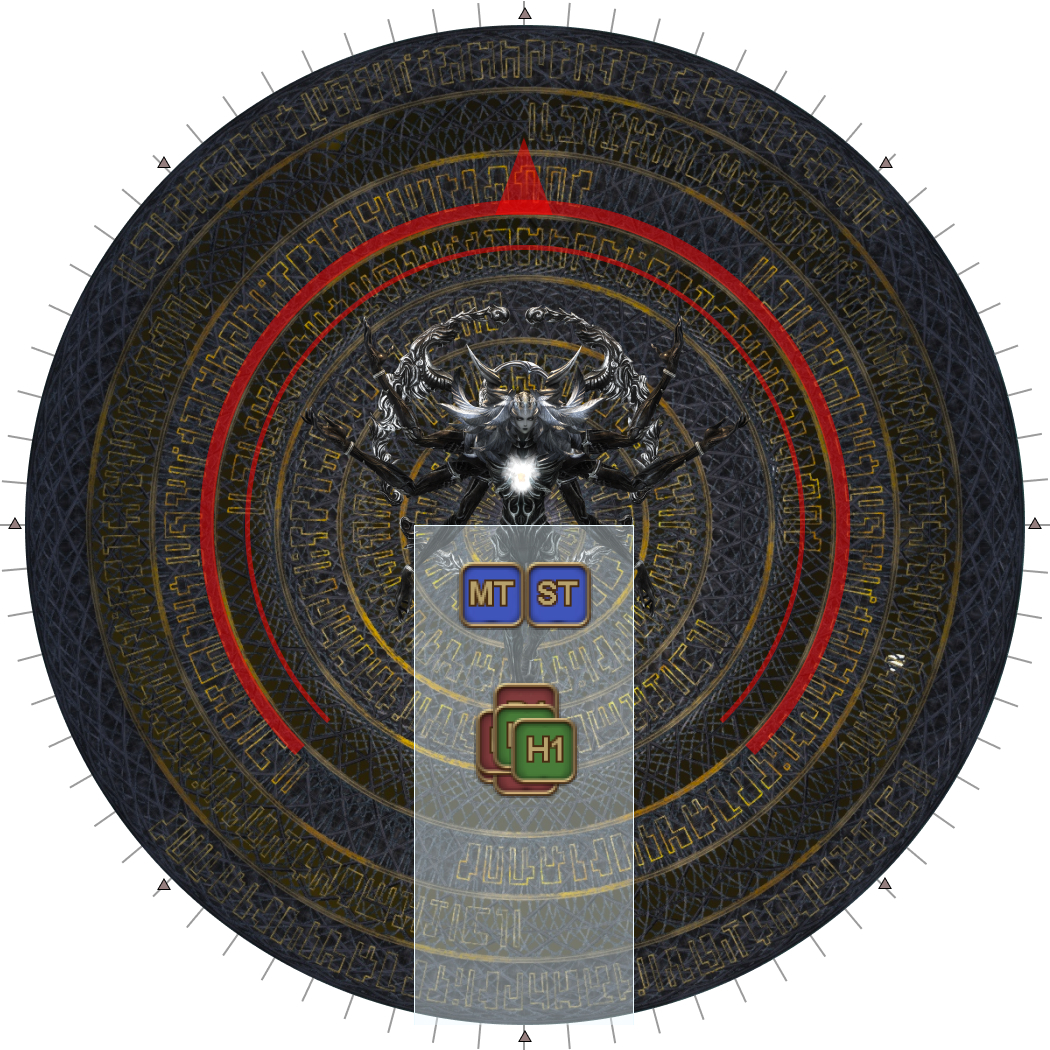
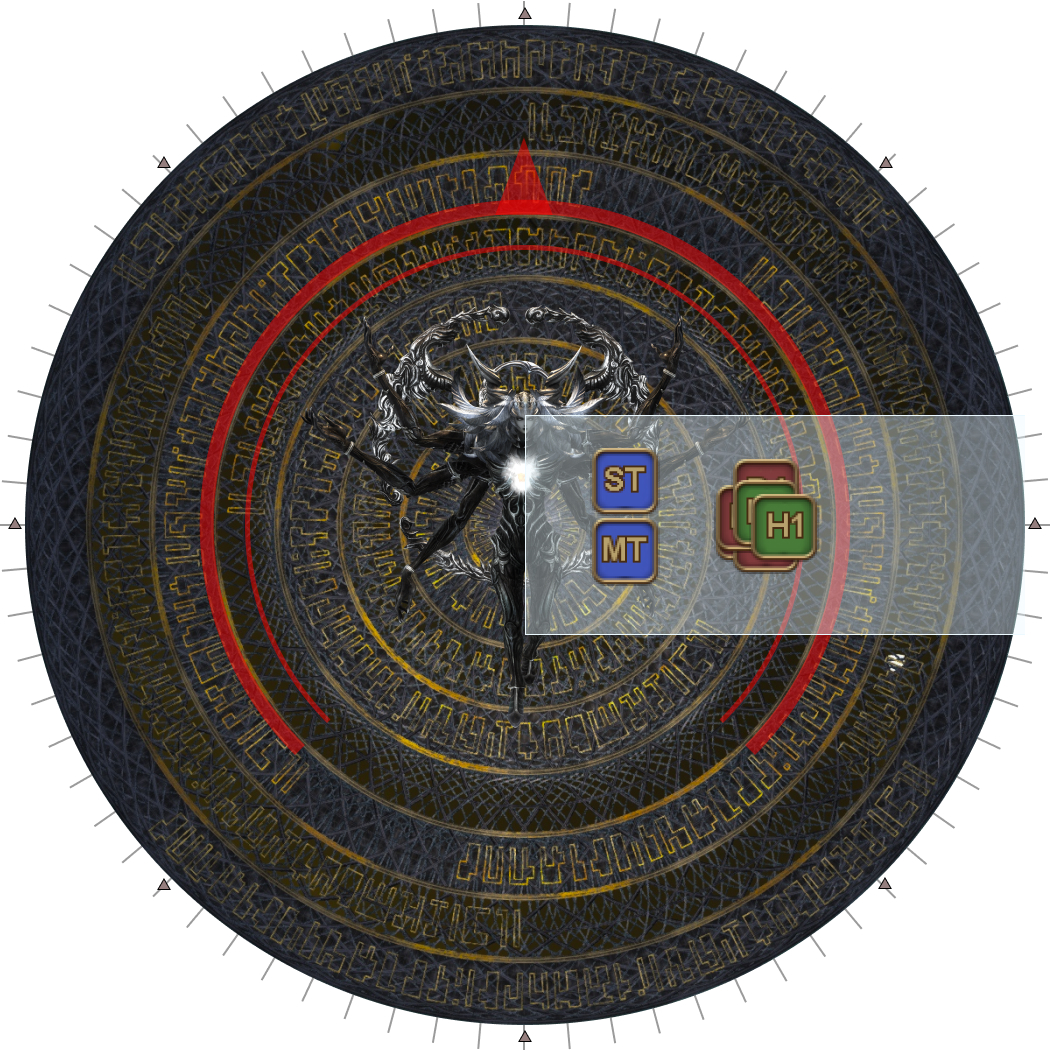
Update Wave Cannon stack position to East

Changed region(s): [[0.3962, 0.3962, 0.9752, 0.9752]]

diff --git a/ultimates/top/en/06_alpha_omega.md b/ultimates/top/en/06_alpha_omega.md
@@ -377,7 +377,7 @@ which should be the tanks.
   </tr>
   <tr>
     <td>
-      <p><b>6.</b> Stack together south, with both tanks in front to take the
+      <p><b>6.</b> Stack together East, with both tanks in front to take the
       final shared beam.</p>
       <p>This is an extremely hard-hitting tankbuster.</p>
       <ul>
@@ -590,7 +590,7 @@ which should be the tanks.
   </tr>
   <tr>
     <td colspan="2">
-      <p><b>11.</b> Stack together South (tanks in front) for the Wave Cannon</p>
+      <p><b>11.</b> Stack together East (tanks in front) for the Wave Cannon</p>
       <ul>
         <li><b>MT:</b> Invuln</li>
         <li><b>ST:</b> Heavy mitigations</li>
